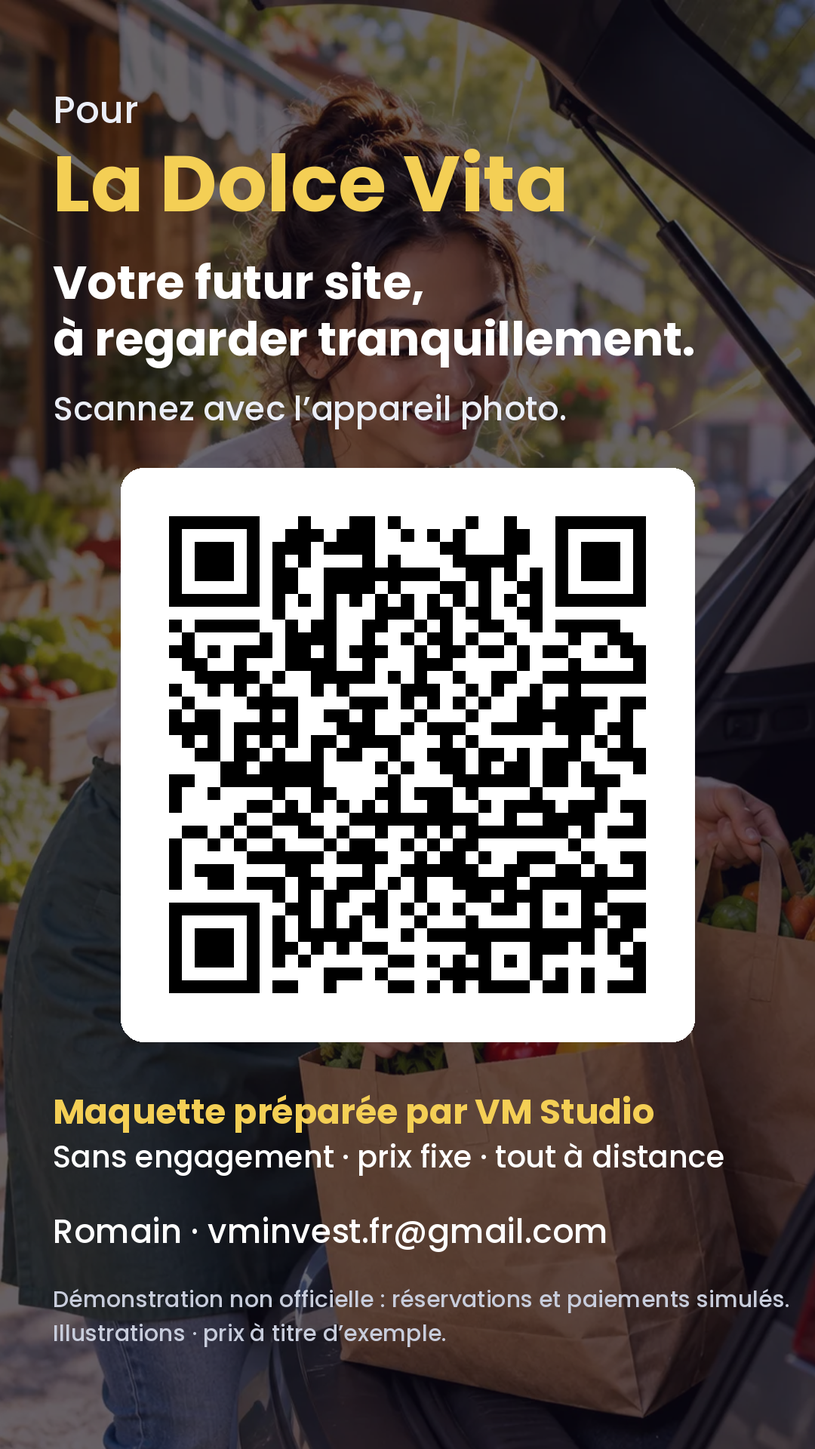
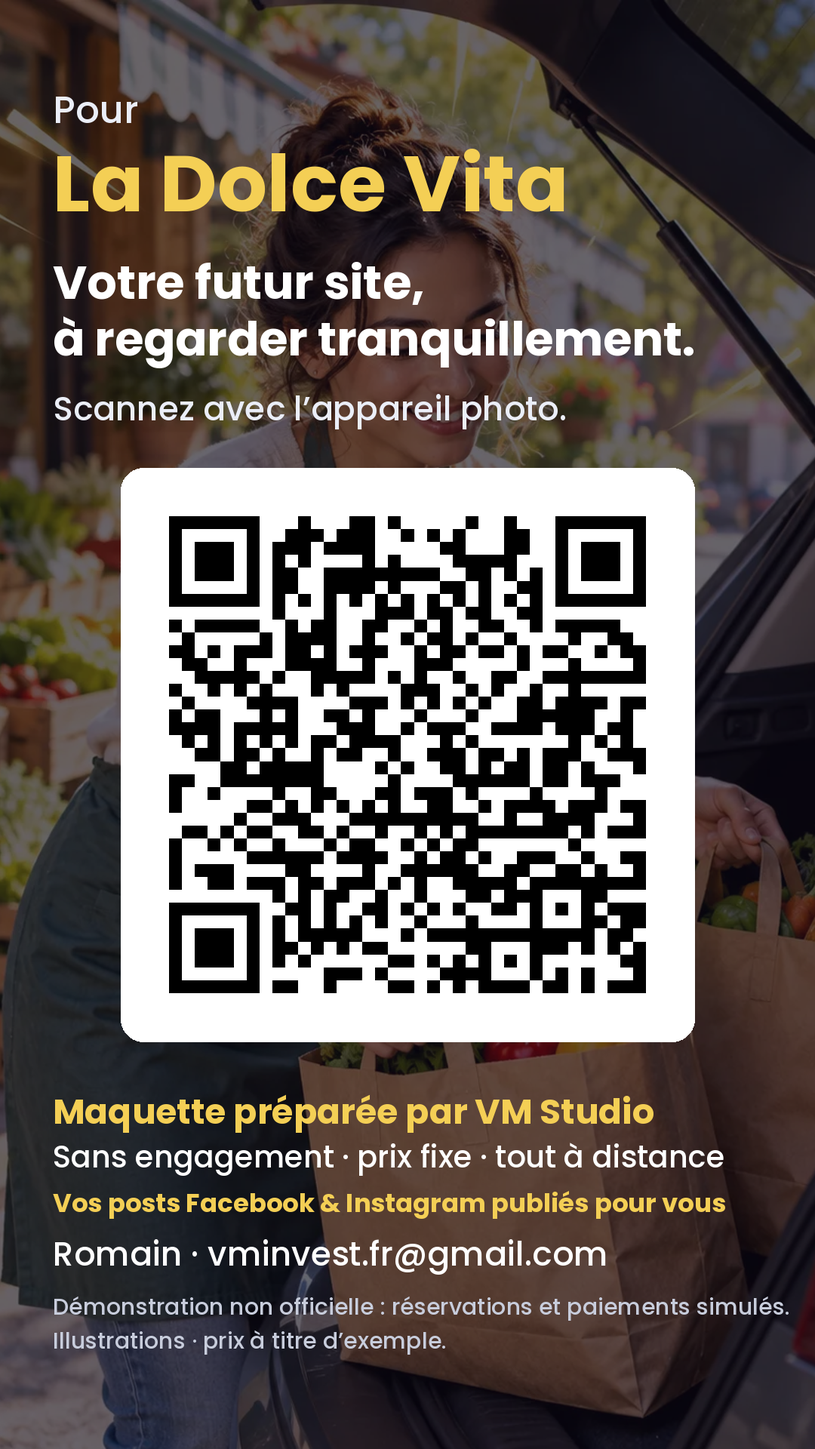
Démos et cartes QR : posts Facebook & Instagram publiés pour le commerçant (Kit Réseaux)
Claude-Session: https://claude.ai/code/session_01P5NxQT71HyV29YBTs2kxP1

Changed region(s): [[0.0611, 0.8125, 0.9778, 0.9375]]

diff --git a/demos/clients/le-turquoise-chez-mahmut-cef546b040.html b/demos/clients/le-turquoise-chez-mahmut-cef546b040.html
@@ -56,7 +56,7 @@
 <section class="vd-sell"><div><h2>Ce site pour <i>Le Turquoise (Chez Mahmut)</i></h2><p>Commande en ligne sans commission (les plateformes, elles, prélèvent un pourcentage sur chaque commande), SMS « commande prête » automatique, écran cuisine et photos qui donnent faim.</p>
 <ul><li>Aucune commission VM par commande (gérance, SMS et éventuels frais de paiement précisés au devis)</li><li>Plus de commandes perdues au téléphone pendant le rush</li><li>Promos et carte mises à jour pour vous</li></ul></div>
 <div class="vd-btns"><a class="vd-btn" href="https://velocemercato.fr/web-studio.html?offre=max#devis">Je veux ce site →</a><a class="vd-btn alt" href="/web-studio.html#tarifs">Voir les formules</a></div></section>
-</main>
+<section id="vm-reseaux" style="margin:24px auto;max-width:1120px;padding:0 16px"><div style="background:linear-gradient(135deg,#1877f2,#c13584);color:#fff;border:3px solid #000;box-shadow:6px 6px 0 #000;border-radius:20px;padding:20px;font-family:system-ui,sans-serif"><div style="font:900 13px/1.2 system-ui;letter-spacing:.08em;text-transform:uppercase;opacity:.9">📲 En plus de votre site</div><h2 style="font:900 26px/1.15 system-ui;margin:8px 0">Vos posts Facebook &amp; Instagram, on s’en occupe pour vous.</h2><p style="margin:0 0 12px;font:600 16px/1.45 system-ui">Chaque mois : 4 publications à vos couleurs et 1 clip vidéo pour YouTube. Vous validez d’un clic, on publie sur vos comptes. Vous, vous gardez la tête à votre commerce.</p><a href="https://velocemercato.fr/kit-reseaux.html" style="display:inline-block;background:#fff;color:#111;font:900 16px/1 system-ui;padding:13px 18px;border-radius:999px;border:2px solid #000;text-decoration:none">Kit Réseaux · dès 99 €/mois →</a></div></section></main>
 <footer class="vd-foot">Maquette réalisée par <a href="https://velocemercato.fr/web-studio.html">VM Studio</a> à partir d’informations publiques, avant validation par Le Turquoise (Chez Mahmut). Images d’illustration : vos vraies photos les remplaceront. Les prix suivis de « (exemple) » sont à confirmer. · <a href="https://vmunivers.fr/">VM Univers</a></footer>
 
 <script>

diff --git a/demos/clients/pizzeria-le-napoli-fab2599d78.html b/demos/clients/pizzeria-le-napoli-fab2599d78.html
@@ -56,7 +56,7 @@
 <section class="vd-sell"><div><h2>Ce site pour <i>Pizzeria Le Napoli</i></h2><p>Commande en ligne sans commission (les plateformes, elles, prélèvent un pourcentage sur chaque commande), SMS « commande prête » automatique, écran cuisine et photos qui donnent faim.</p>
 <ul><li>Aucune commission VM par commande (gérance, SMS et éventuels frais de paiement précisés au devis)</li><li>Plus de commandes perdues au téléphone pendant le rush</li><li>Promos et carte mises à jour pour vous</li></ul></div>
 <div class="vd-btns"><a class="vd-btn" href="https://velocemercato.fr/web-studio.html?offre=max#devis">Je veux ce site →</a><a class="vd-btn alt" href="/web-studio.html#tarifs">Voir les formules</a></div></section>
-</main>
+<section id="vm-reseaux" style="margin:24px auto;max-width:1120px;padding:0 16px"><div style="background:linear-gradient(135deg,#1877f2,#c13584);color:#fff;border:3px solid #000;box-shadow:6px 6px 0 #000;border-radius:20px;padding:20px;font-family:system-ui,sans-serif"><div style="font:900 13px/1.2 system-ui;letter-spacing:.08em;text-transform:uppercase;opacity:.9">📲 En plus de votre site</div><h2 style="font:900 26px/1.15 system-ui;margin:8px 0">Vos posts Facebook &amp; Instagram, on s’en occupe pour vous.</h2><p style="margin:0 0 12px;font:600 16px/1.45 system-ui">Chaque mois : 4 publications à vos couleurs et 1 clip vidéo pour YouTube. Vous validez d’un clic, on publie sur vos comptes. Vous, vous gardez la tête à votre commerce.</p><a href="https://velocemercato.fr/kit-reseaux.html" style="display:inline-block;background:#fff;color:#111;font:900 16px/1 system-ui;padding:13px 18px;border-radius:999px;border:2px solid #000;text-decoration:none">Kit Réseaux · dès 99 €/mois →</a></div></section></main>
 <footer class="vd-foot">Maquette réalisée par <a href="https://velocemercato.fr/web-studio.html">VM Studio</a> à partir d’informations publiques, avant validation par Pizzeria Le Napoli. Images d’illustration : vos vraies photos les remplaceront. Les prix suivis de « (exemple) » sont à confirmer. · <a href="https://vmunivers.fr/">VM Univers</a></footer>
 
 <script>

diff --git a/demos/clients/pizz-burger-3317d2d0d7.html b/demos/clients/pizz-burger-3317d2d0d7.html
@@ -56,7 +56,7 @@
 <section class="vd-sell"><div><h2>Ce site pour <i>Pizz&#x27;Burger</i></h2><p>Commande en ligne sans commission (les plateformes, elles, prélèvent un pourcentage sur chaque commande), SMS « commande prête » automatique, écran cuisine et photos qui donnent faim.</p>
 <ul><li>Aucune commission VM par commande (gérance, SMS et éventuels frais de paiement précisés au devis)</li><li>Plus de commandes perdues au téléphone pendant le rush</li><li>Promos et carte mises à jour pour vous</li></ul></div>
 <div class="vd-btns"><a class="vd-btn" href="https://velocemercato.fr/web-studio.html?offre=max#devis">Je veux ce site →</a><a class="vd-btn alt" href="/web-studio.html#tarifs">Voir les formules</a></div></section>
-</main>
+<section id="vm-reseaux" style="margin:24px auto;max-width:1120px;padding:0 16px"><div style="background:linear-gradient(135deg,#1877f2,#c13584);color:#fff;border:3px solid #000;box-shadow:6px 6px 0 #000;border-radius:20px;padding:20px;font-family:system-ui,sans-serif"><div style="font:900 13px/1.2 system-ui;letter-spacing:.08em;text-transform:uppercase;opacity:.9">📲 En plus de votre site</div><h2 style="font:900 26px/1.15 system-ui;margin:8px 0">Vos posts Facebook &amp; Instagram, on s’en occupe pour vous.</h2><p style="margin:0 0 12px;font:600 16px/1.45 system-ui">Chaque mois : 4 publications à vos couleurs et 1 clip vidéo pour YouTube. Vous validez d’un clic, on publie sur vos comptes. Vous, vous gardez la tête à votre commerce.</p><a href="https://velocemercato.fr/kit-reseaux.html" style="display:inline-block;background:#fff;color:#111;font:900 16px/1 system-ui;padding:13px 18px;border-radius:999px;border:2px solid #000;text-decoration:none">Kit Réseaux · dès 99 €/mois →</a></div></section></main>
 <footer class="vd-foot">Maquette réalisée par <a href="https://velocemercato.fr/web-studio.html">VM Studio</a> à partir d’informations publiques, avant validation par Pizz&#x27;Burger. Images d’illustration : vos vraies photos les remplaceront. Les prix suivis de « (exemple) » sont à confirmer. · <a href="https://vmunivers.fr/">VM Univers</a></footer>
 
 <script>

diff --git a/demos/clients/l-essentiel-burger-0d92858a24.html b/demos/clients/l-essentiel-burger-0d92858a24.html
@@ -57,7 +57,7 @@
 <section class="vd-sell"><div><h2>Ce site pour <i>L&#x27;Essentiel</i></h2><p>Commande en ligne sans commission (les plateformes, elles, prélèvent un pourcentage sur chaque commande), SMS « commande prête » automatique, écran cuisine et photos qui donnent faim.</p>
 <ul><li>Aucune commission VM par commande (gérance, SMS et éventuels frais de paiement précisés au devis)</li><li>Plus de commandes perdues au téléphone pendant le rush</li><li>Promos et carte mises à jour pour vous</li></ul></div>
 <div class="vd-btns"><a class="vd-btn" href="https://velocemercato.fr/web-studio.html?offre=max#devis">Je veux ce site →</a><a class="vd-btn alt" href="/web-studio.html#tarifs">Voir les formules</a></div></section>
-</main>
+<section id="vm-reseaux" style="margin:24px auto;max-width:1120px;padding:0 16px"><div style="background:linear-gradient(135deg,#1877f2,#c13584);color:#fff;border:3px solid #000;box-shadow:6px 6px 0 #000;border-radius:20px;padding:20px;font-family:system-ui,sans-serif"><div style="font:900 13px/1.2 system-ui;letter-spacing:.08em;text-transform:uppercase;opacity:.9">📲 En plus de votre site</div><h2 style="font:900 26px/1.15 system-ui;margin:8px 0">Vos posts Facebook &amp; Instagram, on s’en occupe pour vous.</h2><p style="margin:0 0 12px;font:600 16px/1.45 system-ui">Chaque mois : 4 publications à vos couleurs et 1 clip vidéo pour YouTube. Vous validez d’un clic, on publie sur vos comptes. Vous, vous gardez la tête à votre commerce.</p><a href="https://velocemercato.fr/kit-reseaux.html" style="display:inline-block;background:#fff;color:#111;font:900 16px/1 system-ui;padding:13px 18px;border-radius:999px;border:2px solid #000;text-decoration:none">Kit Réseaux · dès 99 €/mois →</a></div></section></main>
 <footer class="vd-foot">Maquette réalisée par <a href="https://velocemercato.fr/web-studio.html">VM Studio</a> à partir d’informations publiques, avant validation par L&#x27;Essentiel. Photos de la salle prises sur place, plats en illustration. Les prix suivis de « (exemple) » sont à confirmer. · <a href="https://vmunivers.fr/">VM Univers</a></footer>
 
 <script>

diff --git a/demos/clients/ma-creation-cc11adf3a2.html b/demos/clients/ma-creation-cc11adf3a2.html
@@ -68,7 +68,7 @@
 <section class="vd-sell"><div><h2>Ce site pour <i>Ma Création</i></h2><p>Réservation en ligne, confirmation et rappel SMS automatiques, tableau de bord pour gérer vos rendez-vous, photos et vidéos professionnelles.</p>
 <ul><li>Moins d’appels pendant les coupes, moins de rendez-vous oubliés</li><li>Vos clients réservent même quand le salon est fermé</li><li>Mises à jour gérées pour vous (tarifs, photos, horaires)</li></ul></div>
 <div class="vd-btns"><a class="vd-btn" href="https://velocemercato.fr/web-studio.html?offre=business#devis">Je veux ce site →</a><a class="vd-btn alt" href="/web-studio.html#tarifs">Voir les formules</a></div></section>
-</main>
+<section id="vm-reseaux" style="margin:24px auto;max-width:1120px;padding:0 16px"><div style="background:linear-gradient(135deg,#1877f2,#c13584);color:#fff;border:3px solid #000;box-shadow:6px 6px 0 #000;border-radius:20px;padding:20px;font-family:system-ui,sans-serif"><div style="font:900 13px/1.2 system-ui;letter-spacing:.08em;text-transform:uppercase;opacity:.9">📲 En plus de votre site</div><h2 style="font:900 26px/1.15 system-ui;margin:8px 0">Vos posts Facebook &amp; Instagram, on s’en occupe pour vous.</h2><p style="margin:0 0 12px;font:600 16px/1.45 system-ui">Chaque mois : 4 publications à vos couleurs et 1 clip vidéo pour YouTube. Vous validez d’un clic, on publie sur vos comptes. Vous, vous gardez la tête à votre commerce.</p><a href="https://velocemercato.fr/kit-reseaux.html" style="display:inline-block;background:#fff;color:#111;font:900 16px/1 system-ui;padding:13px 18px;border-radius:999px;border:2px solid #000;text-decoration:none">Kit Réseaux · dès 99 €/mois →</a></div></section></main>
 <footer class="vd-foot">Maquette réalisée par <a href="https://velocemercato.fr/web-studio.html">VM Studio</a> à partir d’informations publiques, avant validation par Ma Création. Photos du salon issues de sa page Planity, affichées jusqu’au jeudi 29 octobre à 19 h pour cet exemple privé. Les prix suivis de « (exemple) » sont à confirmer. · <a href="https://vmunivers.fr/">VM Univers</a></footer>
 
 <script>

diff --git a/demos/clients/le-belfortain-coiffure-et-barb-303ff37428.html b/demos/clients/le-belfortain-coiffure-et-barb-303ff37428.html
@@ -55,7 +55,7 @@
 <section class="vd-sell"><div><h2>Ce site pour <i>Le Belfortain Coiffure et Barbier</i></h2><p>Réservation en ligne, confirmation et rappel SMS automatiques, tableau de bord pour gérer vos rendez-vous, photos et vidéos professionnelles.</p>
 <ul><li>Moins d’appels pendant les coupes, moins de rendez-vous oubliés</li><li>Vos clients réservent même quand le salon est fermé</li><li>Mises à jour gérées pour vous (tarifs, photos, horaires)</li></ul></div>
 <div class="vd-btns"><a class="vd-btn" href="https://velocemercato.fr/web-studio.html?offre=business#devis">Je veux ce site →</a><a class="vd-btn alt" href="/web-studio.html#tarifs">Voir les formules</a></div></section>
-</main>
+<section id="vm-reseaux" style="margin:24px auto;max-width:1120px;padding:0 16px"><div style="background:linear-gradient(135deg,#1877f2,#c13584);color:#fff;border:3px solid #000;box-shadow:6px 6px 0 #000;border-radius:20px;padding:20px;font-family:system-ui,sans-serif"><div style="font:900 13px/1.2 system-ui;letter-spacing:.08em;text-transform:uppercase;opacity:.9">📲 En plus de votre site</div><h2 style="font:900 26px/1.15 system-ui;margin:8px 0">Vos posts Facebook &amp; Instagram, on s’en occupe pour vous.</h2><p style="margin:0 0 12px;font:600 16px/1.45 system-ui">Chaque mois : 4 publications à vos couleurs et 1 clip vidéo pour YouTube. Vous validez d’un clic, on publie sur vos comptes. Vous, vous gardez la tête à votre commerce.</p><a href="https://velocemercato.fr/kit-reseaux.html" style="display:inline-block;background:#fff;color:#111;font:900 16px/1 system-ui;padding:13px 18px;border-radius:999px;border:2px solid #000;text-decoration:none">Kit Réseaux · dès 99 €/mois →</a></div></section></main>
 <footer class="vd-foot">Maquette réalisée par <a href="https://velocemercato.fr/web-studio.html">VM Studio</a> à partir d’informations publiques, avant validation par Le Belfortain Coiffure et Barbier. Photos issues de la page publique du commerce, pour cet exemple privé. Les prix suivis de « (exemple) » sont à confirmer. · <a href="https://vmunivers.fr/">VM Univers</a></footer>
 
 <script>

diff --git a/demos/clients/coupe-et-coiff-3cd45d18dc.html b/demos/clients/coupe-et-coiff-3cd45d18dc.html
@@ -66,7 +66,7 @@
 <section class="vd-sell"><div><h2>Ce site pour <i>Coupe et Coiff&#x27;</i></h2><p>Réservation en ligne, confirmation et rappel SMS automatiques, tableau de bord pour gérer vos rendez-vous, photos et vidéos professionnelles.</p>
 <ul><li>Moins d’appels pendant les coupes, moins de rendez-vous oubliés</li><li>Vos clients réservent même quand le salon est fermé</li><li>Mises à jour gérées pour vous (tarifs, photos, horaires)</li></ul></div>
 <div class="vd-btns"><a class="vd-btn" href="https://velocemercato.fr/web-studio.html?offre=business#devis">Je veux ce site →</a><a class="vd-btn alt" href="/web-studio.html#tarifs">Voir les formules</a></div></section>
-</main>
+<section id="vm-reseaux" style="margin:24px auto;max-width:1120px;padding:0 16px"><div style="background:linear-gradient(135deg,#1877f2,#c13584);color:#fff;border:3px solid #000;box-shadow:6px 6px 0 #000;border-radius:20px;padding:20px;font-family:system-ui,sans-serif"><div style="font:900 13px/1.2 system-ui;letter-spacing:.08em;text-transform:uppercase;opacity:.9">📲 En plus de votre site</div><h2 style="font:900 26px/1.15 system-ui;margin:8px 0">Vos posts Facebook &amp; Instagram, on s’en occupe pour vous.</h2><p style="margin:0 0 12px;font:600 16px/1.45 system-ui">Chaque mois : 4 publications à vos couleurs et 1 clip vidéo pour YouTube. Vous validez d’un clic, on publie sur vos comptes. Vous, vous gardez la tête à votre commerce.</p><a href="https://velocemercato.fr/kit-reseaux.html" style="display:inline-block;background:#fff;color:#111;font:900 16px/1 system-ui;padding:13px 18px;border-radius:999px;border:2px solid #000;text-decoration:none">Kit Réseaux · dès 99 €/mois →</a></div></section></main>
 <footer class="vd-foot">Maquette réalisée par <a href="https://velocemercato.fr/web-studio.html">VM Studio</a> à partir d’informations publiques, avant validation par Coupe et Coiff&#x27;. Images d’illustration : vos vraies photos les remplaceront. Les prix suivis de « (exemple) » sont à confirmer. · <a href="https://vmunivers.fr/">VM Univers</a></footer>
 
 <script>

diff --git a/demos/clients/nuances-coiffure-9df411eba1.html b/demos/clients/nuances-coiffure-9df411eba1.html
@@ -66,7 +66,7 @@
 <section class="vd-sell"><div><h2>Ce site pour <i>Nuances Coiffure</i></h2><p>Réservation en ligne, confirmation et rappel SMS automatiques, tableau de bord pour gérer vos rendez-vous, photos et vidéos professionnelles.</p>
 <ul><li>Moins d’appels pendant les coupes, moins de rendez-vous oubliés</li><li>Vos clients réservent même quand le salon est fermé</li><li>Mises à jour gérées pour vous (tarifs, photos, horaires)</li></ul></div>
 <div class="vd-btns"><a class="vd-btn" href="https://velocemercato.fr/web-studio.html?offre=business#devis">Je veux ce site →</a><a class="vd-btn alt" href="/web-studio.html#tarifs">Voir les formules</a></div></section>
-</main>
+<section id="vm-reseaux" style="margin:24px auto;max-width:1120px;padding:0 16px"><div style="background:linear-gradient(135deg,#1877f2,#c13584);color:#fff;border:3px solid #000;box-shadow:6px 6px 0 #000;border-radius:20px;padding:20px;font-family:system-ui,sans-serif"><div style="font:900 13px/1.2 system-ui;letter-spacing:.08em;text-transform:uppercase;opacity:.9">📲 En plus de votre site</div><h2 style="font:900 26px/1.15 system-ui;margin:8px 0">Vos posts Facebook &amp; Instagram, on s’en occupe pour vous.</h2><p style="margin:0 0 12px;font:600 16px/1.45 system-ui">Chaque mois : 4 publications à vos couleurs et 1 clip vidéo pour YouTube. Vous validez d’un clic, on publie sur vos comptes. Vous, vous gardez la tête à votre commerce.</p><a href="https://velocemercato.fr/kit-reseaux.html" style="display:inline-block;background:#fff;color:#111;font:900 16px/1 system-ui;padding:13px 18px;border-radius:999px;border:2px solid #000;text-decoration:none">Kit Réseaux · dès 99 €/mois →</a></div></section></main>
 <footer class="vd-foot">Maquette réalisée par <a href="https://velocemercato.fr/web-studio.html">VM Studio</a> à partir d’informations publiques, avant validation par Nuances Coiffure. Images d’illustration : vos vraies photos les remplaceront. Les prix suivis de « (exemple) » sont à confirmer. · <a href="https://vmunivers.fr/">VM Univers</a></footer>
 
 <script>

diff --git a/demos/clients/la-coifferie-e576685632.html b/demos/clients/la-coifferie-e576685632.html
@@ -66,7 +66,7 @@
 <section class="vd-sell"><div><h2>Ce site pour <i>La Coifferie</i></h2><p>Réservation en ligne, confirmation et rappel SMS automatiques, tableau de bord pour gérer vos rendez-vous, photos et vidéos professionnelles.</p>
 <ul><li>Moins d’appels pendant les coupes, moins de rendez-vous oubliés</li><li>Vos clients réservent même quand le salon est fermé</li><li>Mises à jour gérées pour vous (tarifs, photos, horaires)</li></ul></div>
 <div class="vd-btns"><a class="vd-btn" href="https://velocemercato.fr/web-studio.html?offre=business#devis">Je veux ce site →</a><a class="vd-btn alt" href="/web-studio.html#tarifs">Voir les formules</a></div></section>
-</main>
+<section id="vm-reseaux" style="margin:24px auto;max-width:1120px;padding:0 16px"><div style="background:linear-gradient(135deg,#1877f2,#c13584);color:#fff;border:3px solid #000;box-shadow:6px 6px 0 #000;border-radius:20px;padding:20px;font-family:system-ui,sans-serif"><div style="font:900 13px/1.2 system-ui;letter-spacing:.08em;text-transform:uppercase;opacity:.9">📲 En plus de votre site</div><h2 style="font:900 26px/1.15 system-ui;margin:8px 0">Vos posts Facebook &amp; Instagram, on s’en occupe pour vous.</h2><p style="margin:0 0 12px;font:600 16px/1.45 system-ui">Chaque mois : 4 publications à vos couleurs et 1 clip vidéo pour YouTube. Vous validez d’un clic, on publie sur vos comptes. Vous, vous gardez la tête à votre commerce.</p><a href="https://velocemercato.fr/kit-reseaux.html" style="display:inline-block;background:#fff;color:#111;font:900 16px/1 system-ui;padding:13px 18px;border-radius:999px;border:2px solid #000;text-decoration:none">Kit Réseaux · dès 99 €/mois →</a></div></section></main>
 <footer class="vd-foot">Maquette réalisée par <a href="https://velocemercato.fr/web-studio.html">VM Studio</a> à partir d’informations publiques, avant validation par La Coifferie. Images d’illustration : vos vraies photos les remplaceront. Les prix suivis de « (exemple) » sont à confirmer. · <a href="https://vmunivers.fr/">VM Univers</a></footer>
 
 <script>

diff --git a/demos/clients/boulangerie-patisserie-dubret-051a09c5a7.html b/demos/clients/boulangerie-patisserie-dubret-051a09c5a7.html
@@ -49,7 +49,7 @@
 <section class="vd-sell"><div><h2>Ce site pour <i>Boulangerie Pâtisserie Dubret</i></h2><p>Catalogue en ligne, panier, créneaux de drive et de livraison, SMS et e-mails automatiques, tableau de bord des commandes. Sans commission de plateforme.</p>
 <ul><li>Vendez même quand le magasin est fermé</li><li>Préparez les commandes au calme, par créneau</li><li>Catalogue, prix et promos mis à jour pour vous</li></ul></div>
 <div class="vd-btns"><a class="vd-btn" href="https://velocemercato.fr/web-studio.html?offre=max#devis">Je veux ce site →</a><a class="vd-btn alt" href="/web-studio.html#tarifs">Voir les formules</a></div></section>
-</main>
+<section id="vm-reseaux" style="margin:24px auto;max-width:1120px;padding:0 16px"><div style="background:linear-gradient(135deg,#1877f2,#c13584);color:#fff;border:3px solid #000;box-shadow:6px 6px 0 #000;border-radius:20px;padding:20px;font-family:system-ui,sans-serif"><div style="font:900 13px/1.2 system-ui;letter-spacing:.08em;text-transform:uppercase;opacity:.9">📲 En plus de votre site</div><h2 style="font:900 26px/1.15 system-ui;margin:8px 0">Vos posts Facebook &amp; Instagram, on s’en occupe pour vous.</h2><p style="margin:0 0 12px;font:600 16px/1.45 system-ui">Chaque mois : 4 publications à vos couleurs et 1 clip vidéo pour YouTube. Vous validez d’un clic, on publie sur vos comptes. Vous, vous gardez la tête à votre commerce.</p><a href="https://velocemercato.fr/kit-reseaux.html" style="display:inline-block;background:#fff;color:#111;font:900 16px/1 system-ui;padding:13px 18px;border-radius:999px;border:2px solid #000;text-decoration:none">Kit Réseaux · dès 99 €/mois →</a></div></section></main>
 <footer class="vd-foot">Maquette réalisée par <a href="https://velocemercato.fr/web-studio.html">VM Studio</a> à partir d’informations publiques, avant validation par Boulangerie Pâtisserie Dubret. Images d’illustration : vos vraies photos les remplaceront. Les prix suivis de « (exemple) » sont à confirmer. · <a href="https://vmunivers.fr/">VM Univers</a></footer>
 
 <script>

diff --git a/demos/clients/le-ribeauville-543747f021.html b/demos/clients/le-ribeauville-543747f021.html
@@ -49,7 +49,7 @@
 <section class="vd-sell"><div><h2>Ce site pour <i>Le Ribeauvillé</i></h2><p>Catalogue en ligne, panier, créneaux de drive et de livraison, SMS et e-mails automatiques, tableau de bord des commandes. Sans commission de plateforme.</p>
 <ul><li>Vendez même quand le magasin est fermé</li><li>Préparez les commandes au calme, par créneau</li><li>Catalogue, prix et promos mis à jour pour vous</li></ul></div>
 <div class="vd-btns"><a class="vd-btn" href="https://velocemercato.fr/web-studio.html?offre=starter#devis">Je veux ce site →</a><a class="vd-btn alt" href="/web-studio.html#tarifs">Voir les formules</a></div></section>
-</main>
+<section id="vm-reseaux" style="margin:24px auto;max-width:1120px;padding:0 16px"><div style="background:linear-gradient(135deg,#1877f2,#c13584);color:#fff;border:3px solid #000;box-shadow:6px 6px 0 #000;border-radius:20px;padding:20px;font-family:system-ui,sans-serif"><div style="font:900 13px/1.2 system-ui;letter-spacing:.08em;text-transform:uppercase;opacity:.9">📲 En plus de votre site</div><h2 style="font:900 26px/1.15 system-ui;margin:8px 0">Vos posts Facebook &amp; Instagram, on s’en occupe pour vous.</h2><p style="margin:0 0 12px;font:600 16px/1.45 system-ui">Chaque mois : 4 publications à vos couleurs et 1 clip vidéo pour YouTube. Vous validez d’un clic, on publie sur vos comptes. Vous, vous gardez la tête à votre commerce.</p><a href="https://velocemercato.fr/kit-reseaux.html" style="display:inline-block;background:#fff;color:#111;font:900 16px/1 system-ui;padding:13px 18px;border-radius:999px;border:2px solid #000;text-decoration:none">Kit Réseaux · dès 99 €/mois →</a></div></section></main>
 <footer class="vd-foot">Maquette réalisée par <a href="https://velocemercato.fr/web-studio.html">VM Studio</a> à partir d’informations publiques, avant validation par Le Ribeauvillé. Images d’illustration : vos vraies photos les remplaceront. Les prix suivis de « (exemple) » sont à confirmer. · <a href="https://vmunivers.fr/">VM Univers</a></footer>
 
 <script>

diff --git a/demos/clients/la-dolce-vita-a908808efb.html b/demos/clients/la-dolce-vita-a908808efb.html
@@ -49,7 +49,7 @@
 <section class="vd-sell"><div><h2>Ce site pour <i>La Dolce Vita</i></h2><p>Catalogue en ligne, panier, créneaux de drive et de livraison, SMS et e-mails automatiques, tableau de bord des commandes. Sans commission de plateforme.</p>
 <ul><li>Vendez même quand le magasin est fermé</li><li>Préparez les commandes au calme, par créneau</li><li>Catalogue, prix et promos mis à jour pour vous</li></ul></div>
 <div class="vd-btns"><a class="vd-btn" href="https://velocemercato.fr/web-studio.html?offre=max#devis">Je veux ce site →</a><a class="vd-btn alt" href="/web-studio.html#tarifs">Voir les formules</a></div></section>
-</main>
+<section id="vm-reseaux" style="margin:24px auto;max-width:1120px;padding:0 16px"><div style="background:linear-gradient(135deg,#1877f2,#c13584);color:#fff;border:3px solid #000;box-shadow:6px 6px 0 #000;border-radius:20px;padding:20px;font-family:system-ui,sans-serif"><div style="font:900 13px/1.2 system-ui;letter-spacing:.08em;text-transform:uppercase;opacity:.9">📲 En plus de votre site</div><h2 style="font:900 26px/1.15 system-ui;margin:8px 0">Vos posts Facebook &amp; Instagram, on s’en occupe pour vous.</h2><p style="margin:0 0 12px;font:600 16px/1.45 system-ui">Chaque mois : 4 publications à vos couleurs et 1 clip vidéo pour YouTube. Vous validez d’un clic, on publie sur vos comptes. Vous, vous gardez la tête à votre commerce.</p><a href="https://velocemercato.fr/kit-reseaux.html" style="display:inline-block;background:#fff;color:#111;font:900 16px/1 system-ui;padding:13px 18px;border-radius:999px;border:2px solid #000;text-decoration:none">Kit Réseaux · dès 99 €/mois →</a></div></section></main>
 <footer class="vd-foot">Maquette réalisée par <a href="https://velocemercato.fr/web-studio.html">VM Studio</a> à partir d’informations publiques, avant validation par La Dolce Vita. Images d’illustration : vos vraies photos les remplaceront. Les prix suivis de « (exemple) » sont à confirmer. · <a href="https://vmunivers.fr/">VM Univers</a></footer>
 
 <script>
